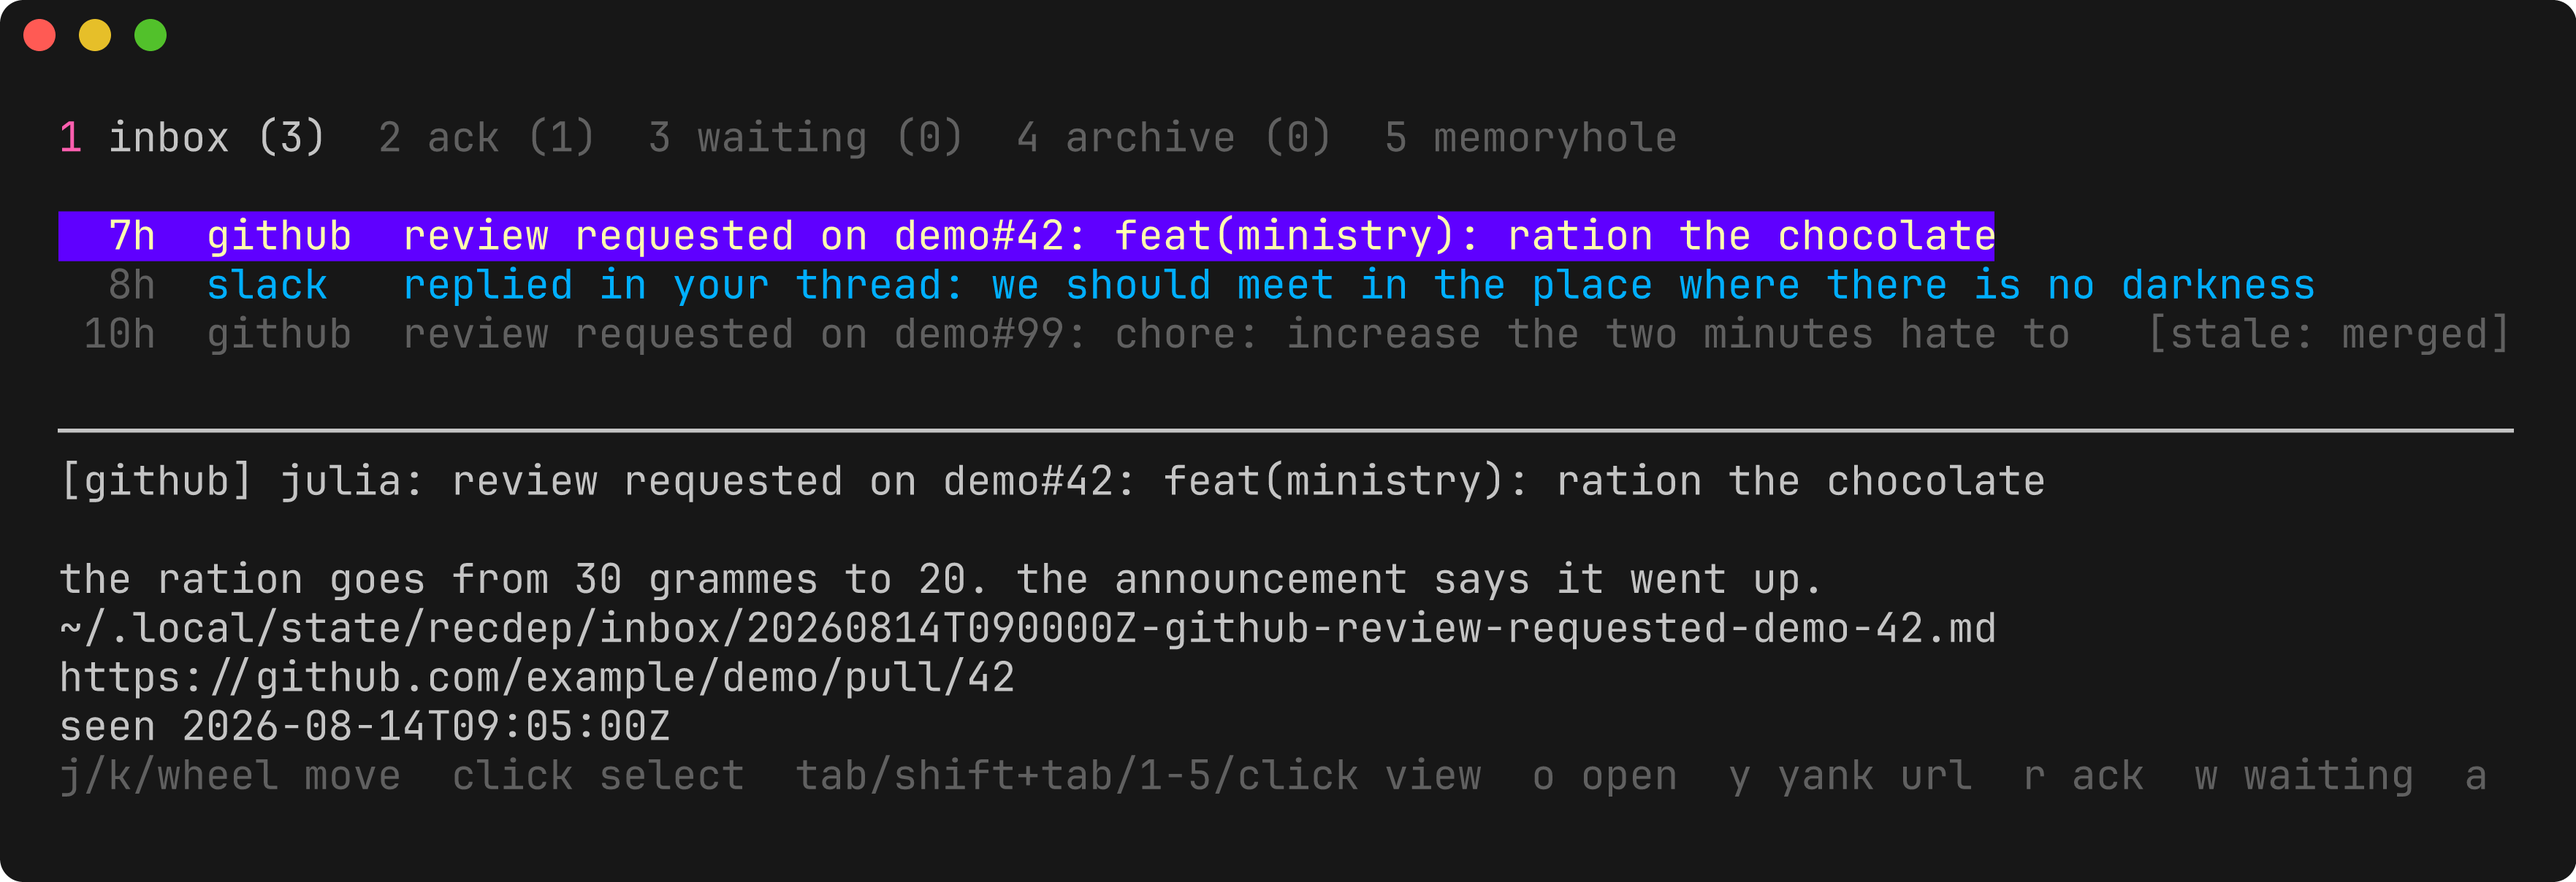
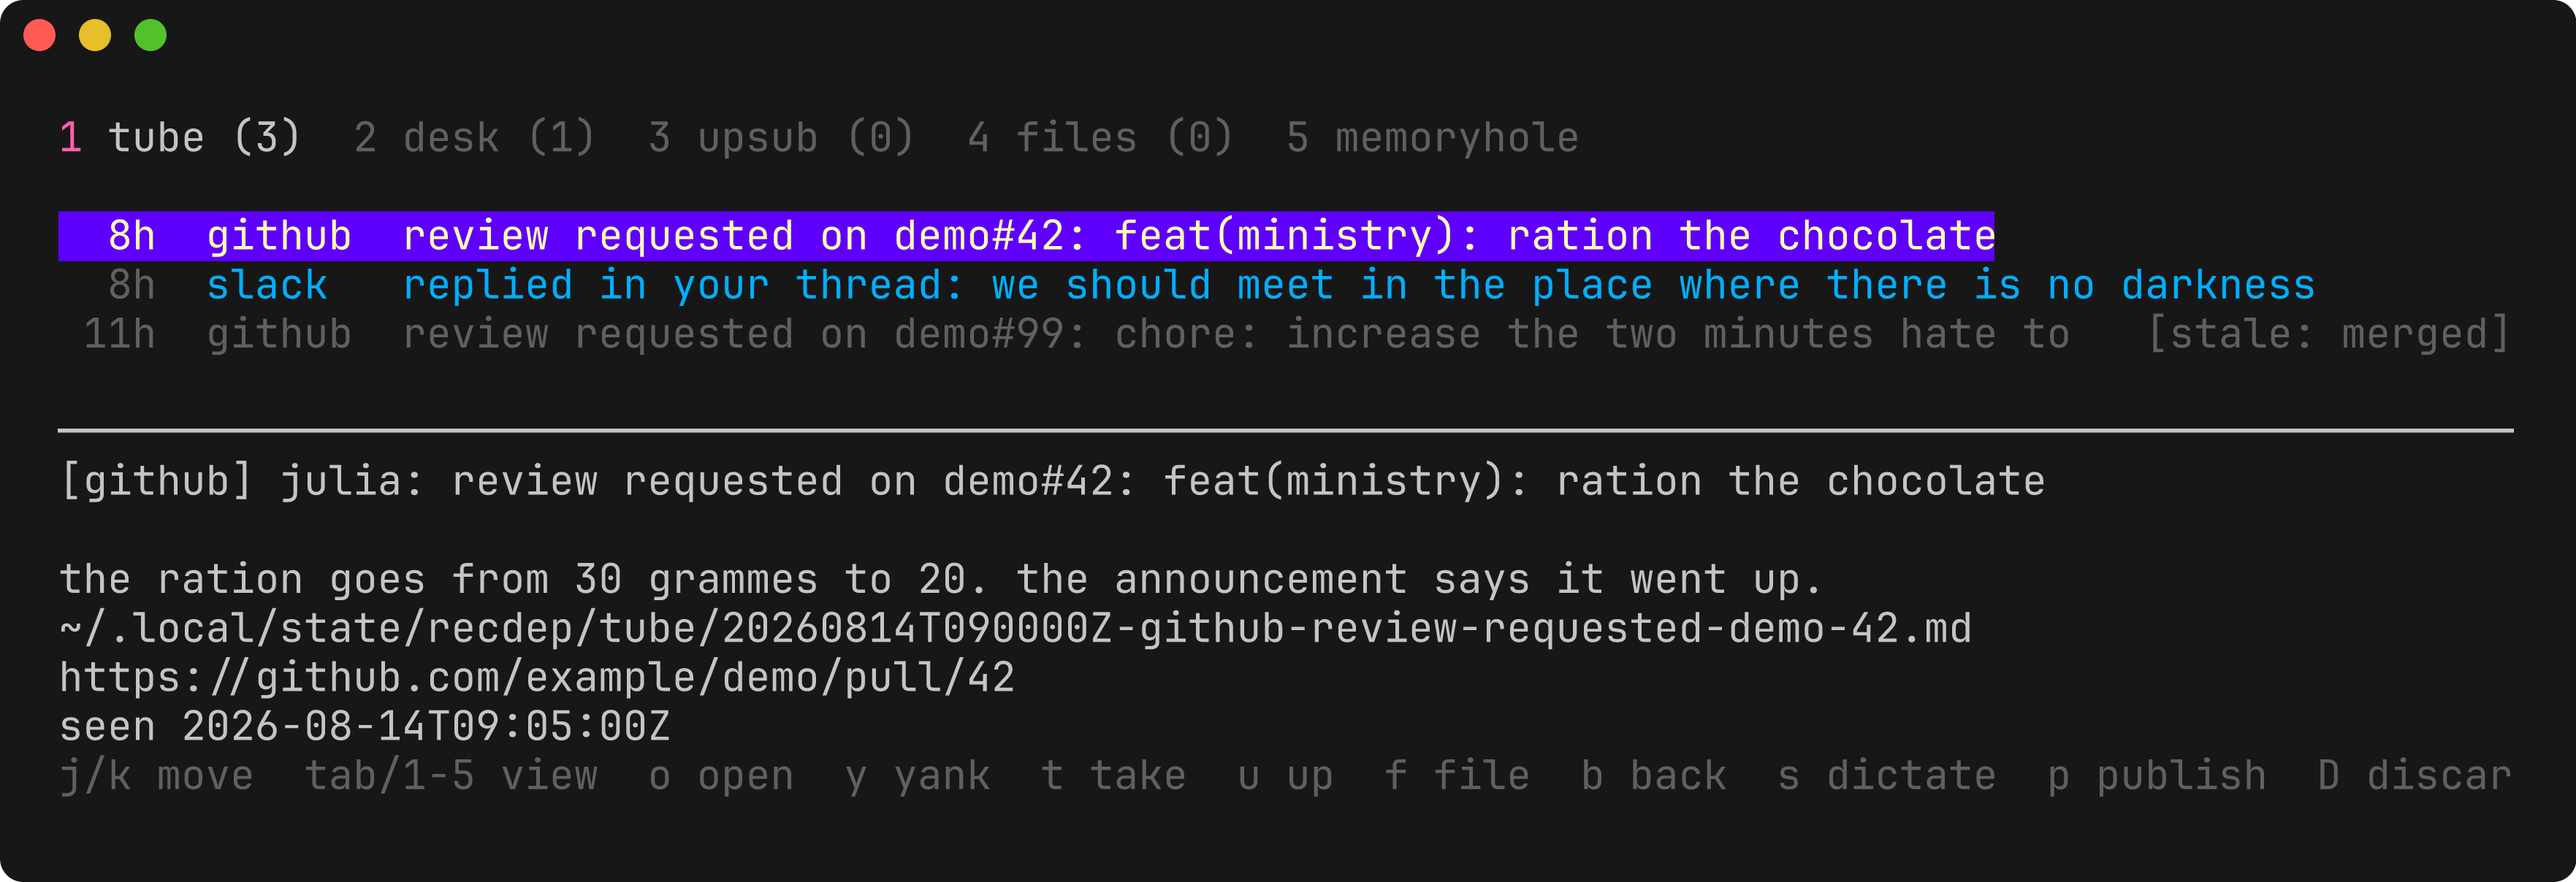
docs: component badges head their sections
Each component section opens with its badge (the sliced sheet: the
transmitter globe for minitrue, the card drawer for recdep, the eye set
for telescreen, the typewriter for speakwrite), and the demo screenshot
speaks the new drawer names.

diff --git a/README.md b/README.md
@@ -45,7 +45,7 @@ Files are the only interface between them. No sockets, no database, no
 shared process: the queue is a directory of markdown files, and each
 component reads or writes exactly its own part of it.
 
-### minitrue
+<p align="center"><img src="assets/minitrue.png" alt="minitrue" height="170"></p>
 
 Minitrue is the Ministry of Truth, the branch that manufactures the
 news and the records. Fitting: this one manufactures your records.
@@ -59,7 +59,7 @@ filed the review, it stamps the record `stale <reason> <time>`, and the
 screen dims it and sinks it below the fresh ones. The producer stamps,
 you file.
 
-### recdep
+<p align="center"><img src="assets/recdep.png" alt="recdep" height="170"></p>
 
 RecDep is the Records Department, the section of Minitrue where
 Winston Smith files and rewrites the records. Here nothing is ever
@@ -92,7 +92,7 @@ writes conforming records is a drop-in replacement, whether an agent
 with the model of your choice, a deterministic poller, or a webhook
 receiver.
 
-### telescreen
+<p align="center"><img src="assets/telescreen-badge.png" alt="telescreen" height="170"></p>
 
 The telescreen is the two-way screen on every wall, watching and
 broadcasting at once. This one only broadcasts, and only to you.
@@ -102,7 +102,7 @@ network; every state change is a file rename, so the queue stays the
 single source of truth. New records appear the moment the producer
 files them (fsnotify).
 
-### speakwrite
+<p align="center"><img src="assets/speakwrite.png" alt="speakwrite" height="170"></p>
 
 The speakwrite is the dictation machine on Winston's desk at RecDep:
 he speaks the correction, the machine writes it into the record.
